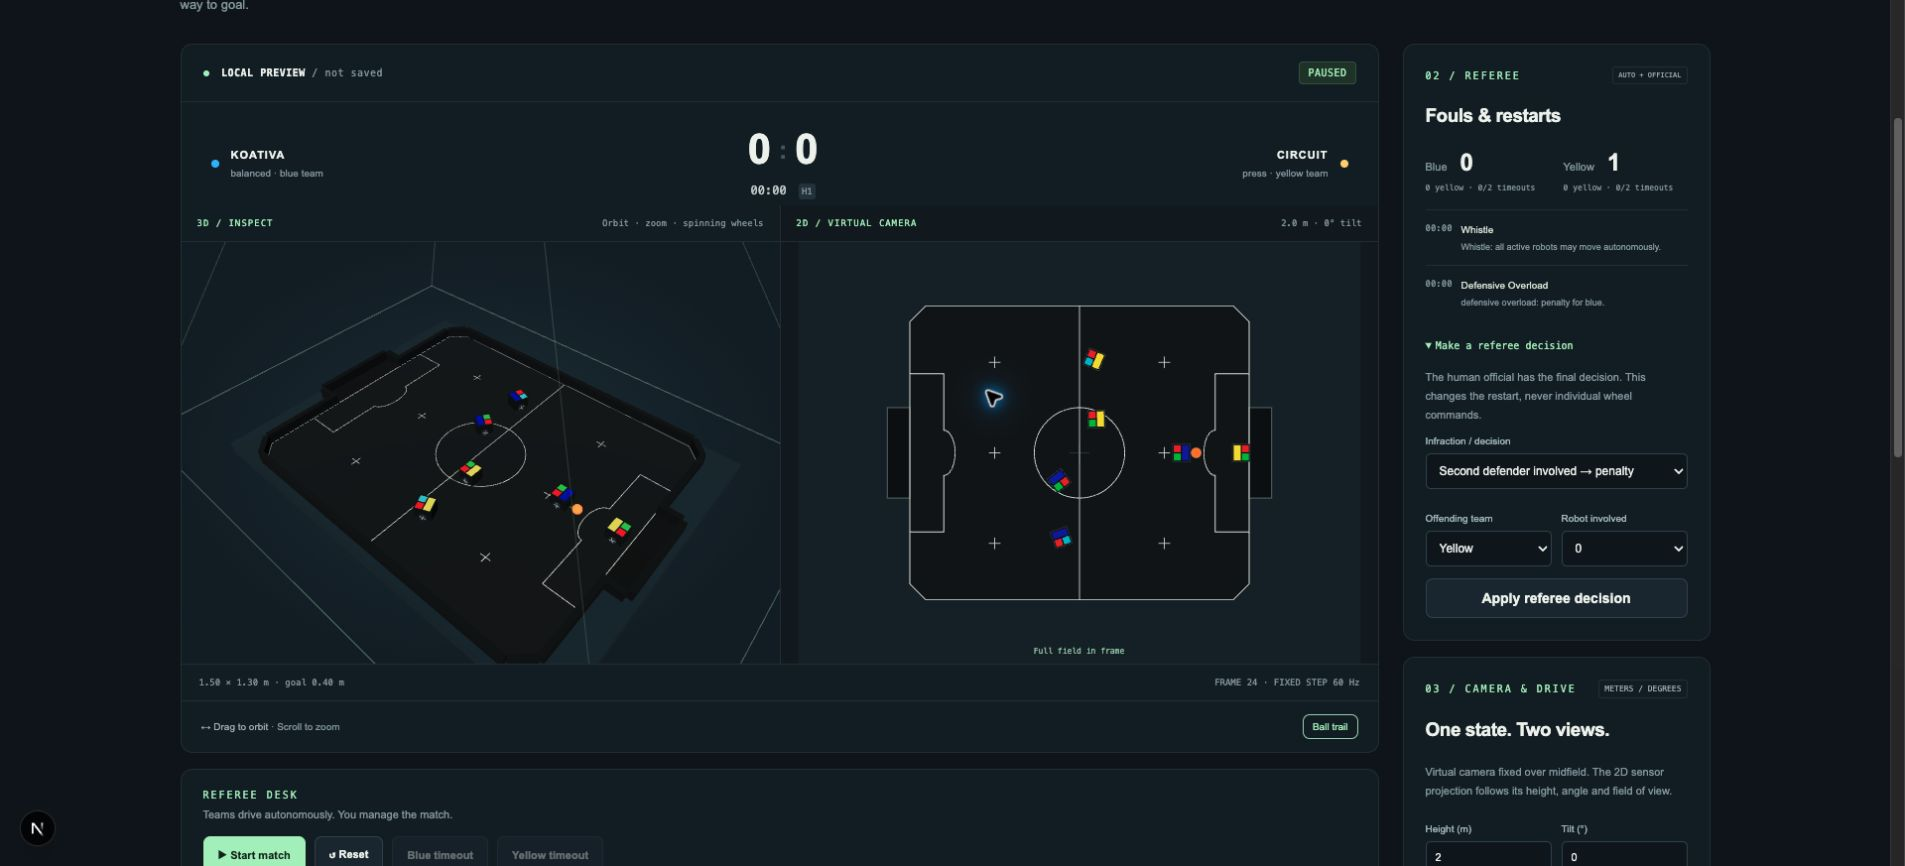
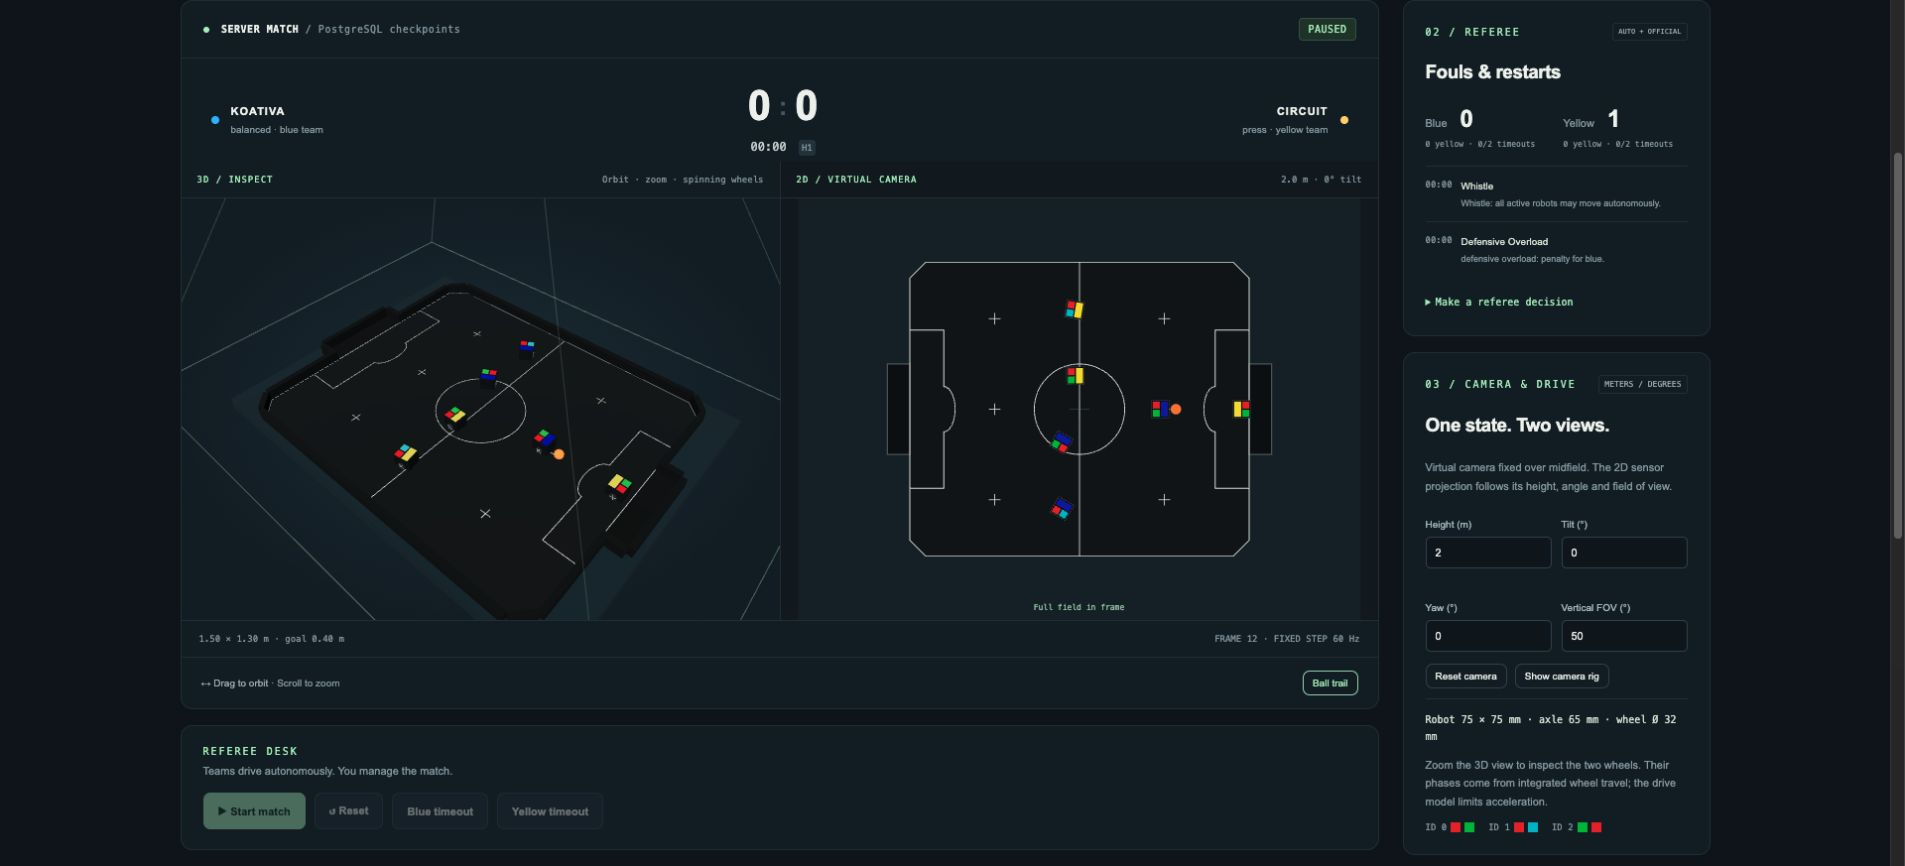
docs: record verified Vercel referee deployment and CI results

diff --git a/docs/WORK_LOG.md b/docs/WORK_LOG.md
@@ -65,3 +65,11 @@ Select the real competition/edition and reconcile its rules; implement full refe
 - Browser checks exercised actual 3D rendering, a manual penalty and whistle, matching viewport frame numbers, camera height/tilt/frustum, pause and a 390-pixel mobile layout without horizontal document overflow. Saved the local synchronized-view screenshot in `docs/assets/match-lab-v2.jpg`.
 
 Publication and final CI verification are recorded below after the deployment is observed.
+
+### Observed v0.2 publication
+
+- Pushed `00a3415` (engine/referee/drive/views) and `2e494eb` (didactic documentation) normally to `master`. [GitHub Actions run 44014782886](https://github.com/kleberandrade/robot-soccer/actions/runs/44014782886) completed **software and firmware successfully**, including all 67 Vitest cases with real PostgreSQL, both HTTP smoke flows, the full match and the production build. Vercel reported success for `2e494eb`.
+- Public health returned engine 2 with persistence/operator configuration enabled. The production referee smoke created match `7f02e281-a212-4a5d-b2bf-7084162a30dd`, persisted a penalty, confirmed 401 without authentication, held the pre-whistle clock, advanced 12 playing ticks with wheel rotation, verified four replay chunks and paused the checkpoint at revision 5.
+- All four public article routes and three original SVG illustrations returned HTTP 200. The camera/drive article rendered correctly on a 390-pixel mobile viewport with its image loaded and no horizontal document overflow. The legacy demonstration checkpoint read successfully through the v1→v2 compatibility path without an explicit data migration.
+- Loaded the new saved match through the public browser as a spectator; the 3D and synthetic camera views showed the same frame 12, Yellow's foul and the recorded whistle. No operator token was entered in that tab. Replaced `docs/assets/match-lab-v2.jpg` with this public production screenshot and left the simulator and learning article open.
+- Physical dynamics/calibration and full tournament procedures remain the explicit limitations in the rules note. Mutation testing is reported above without a full-coverage claim.
